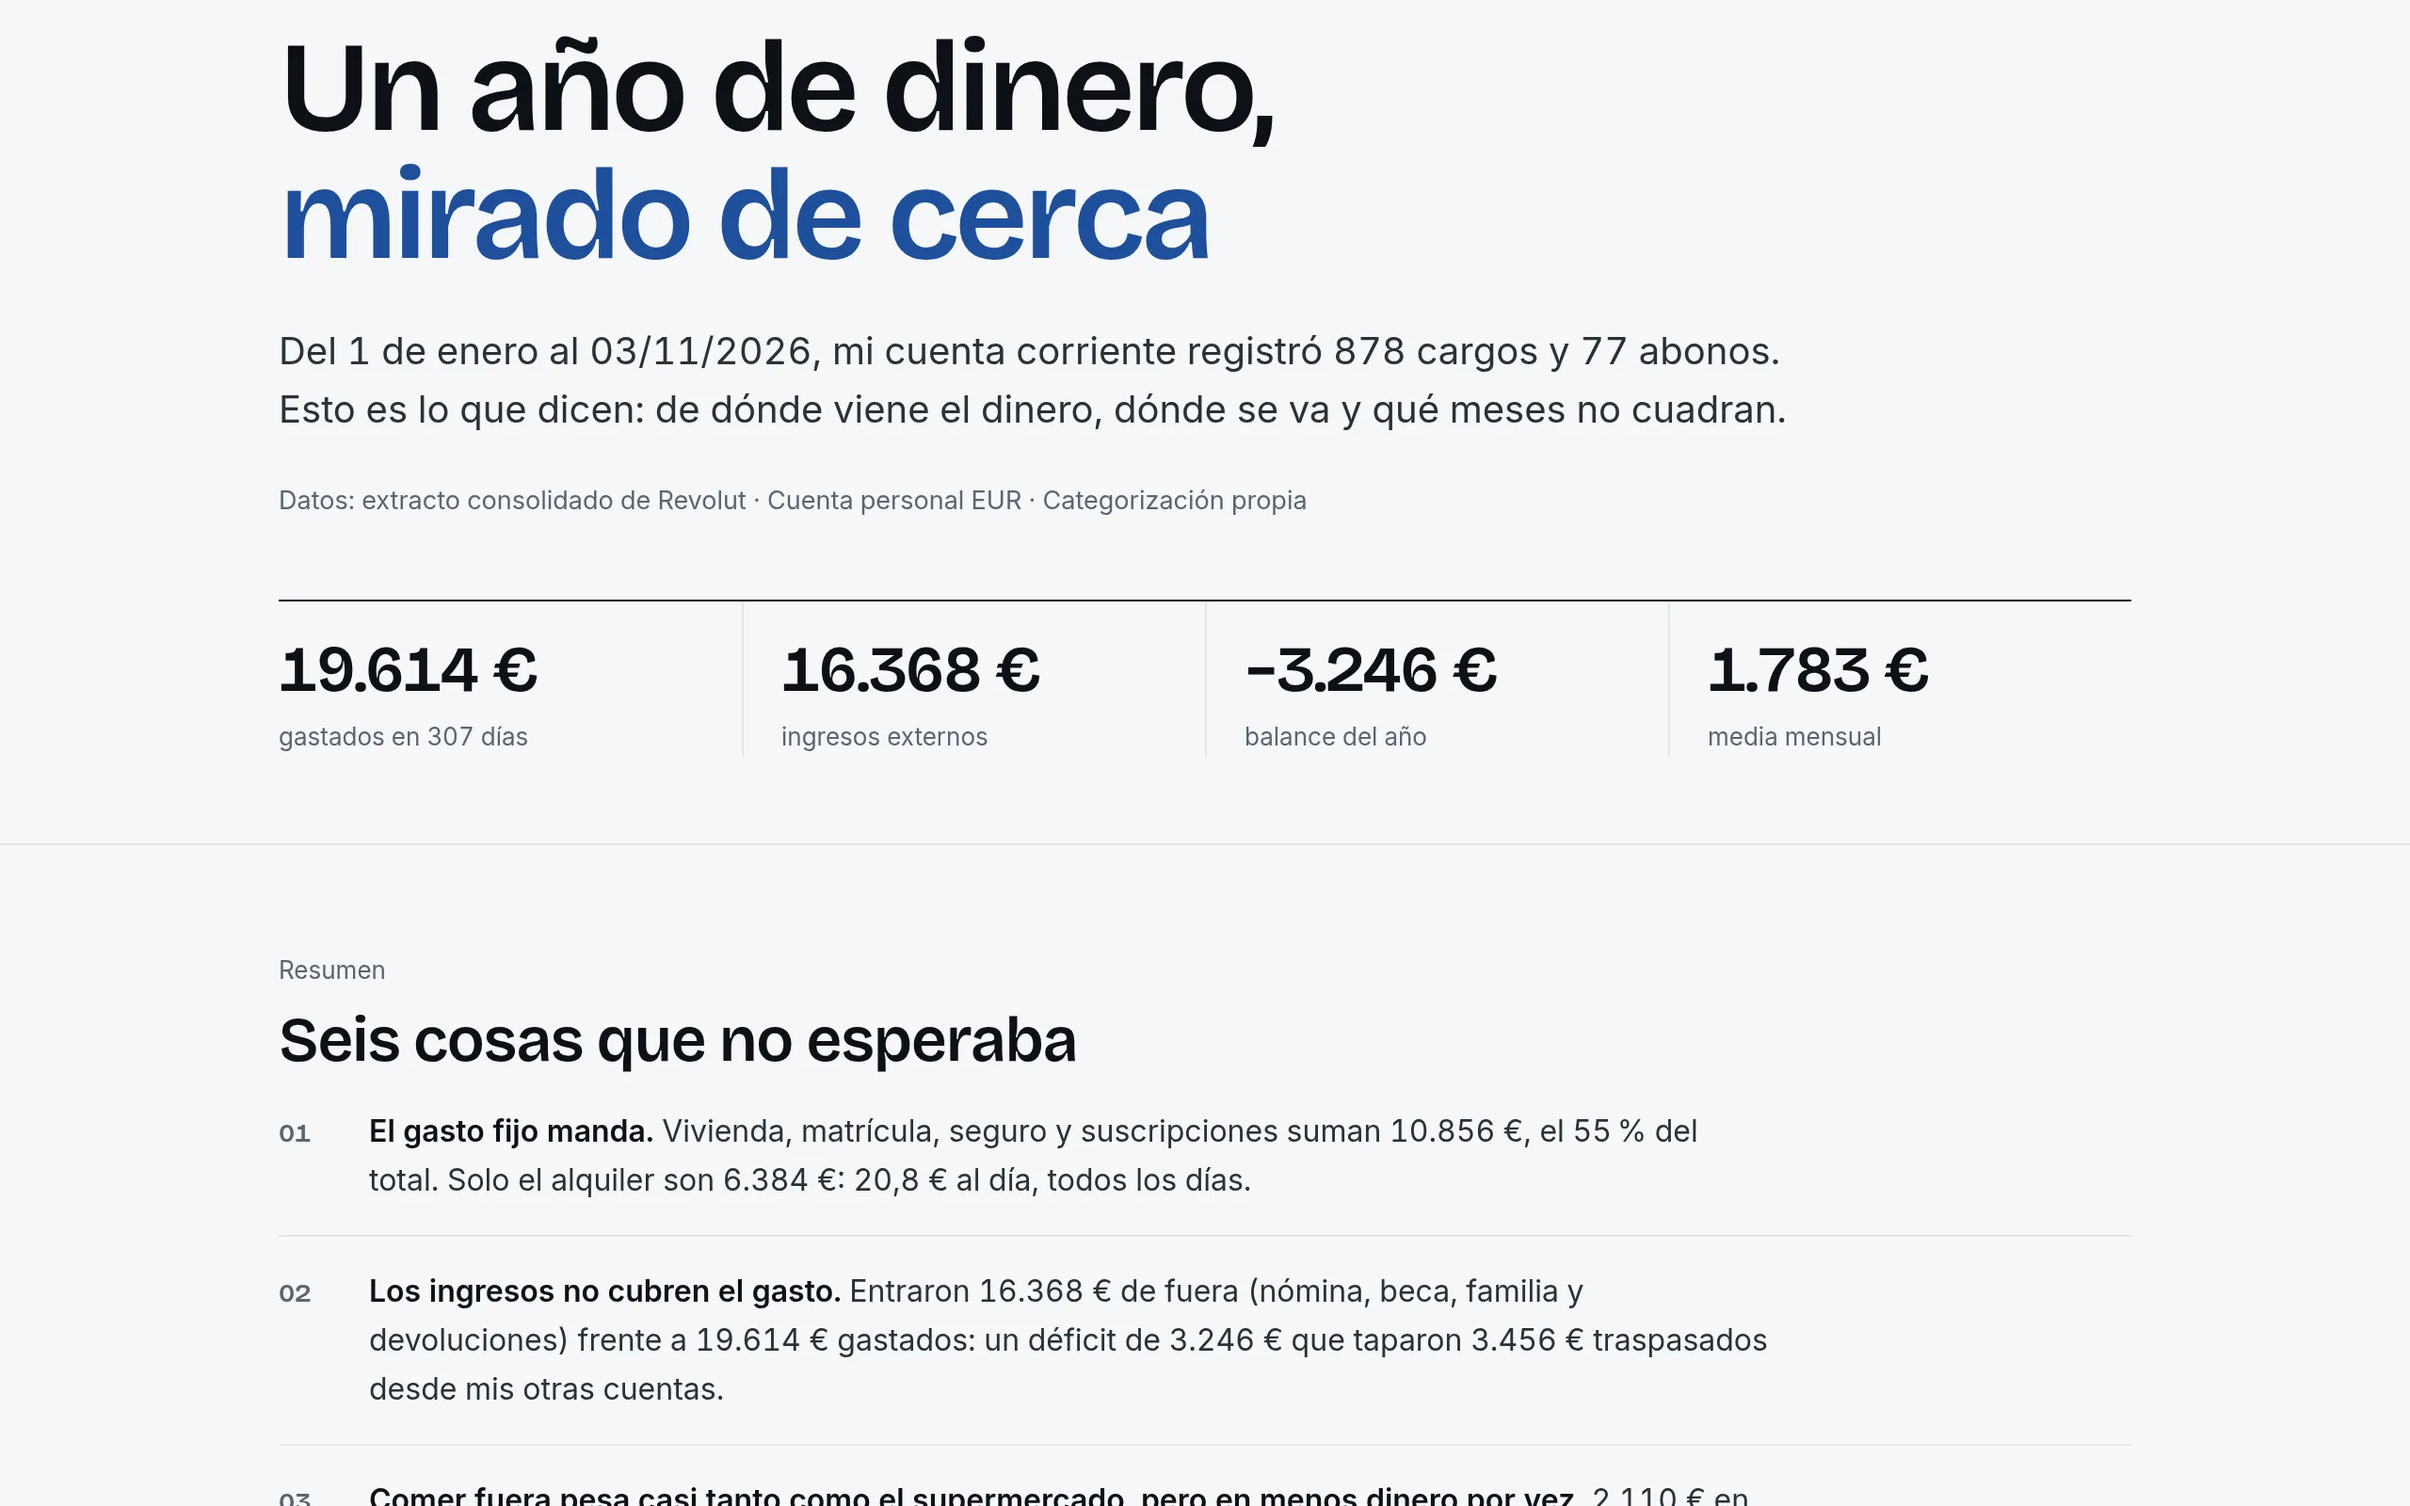
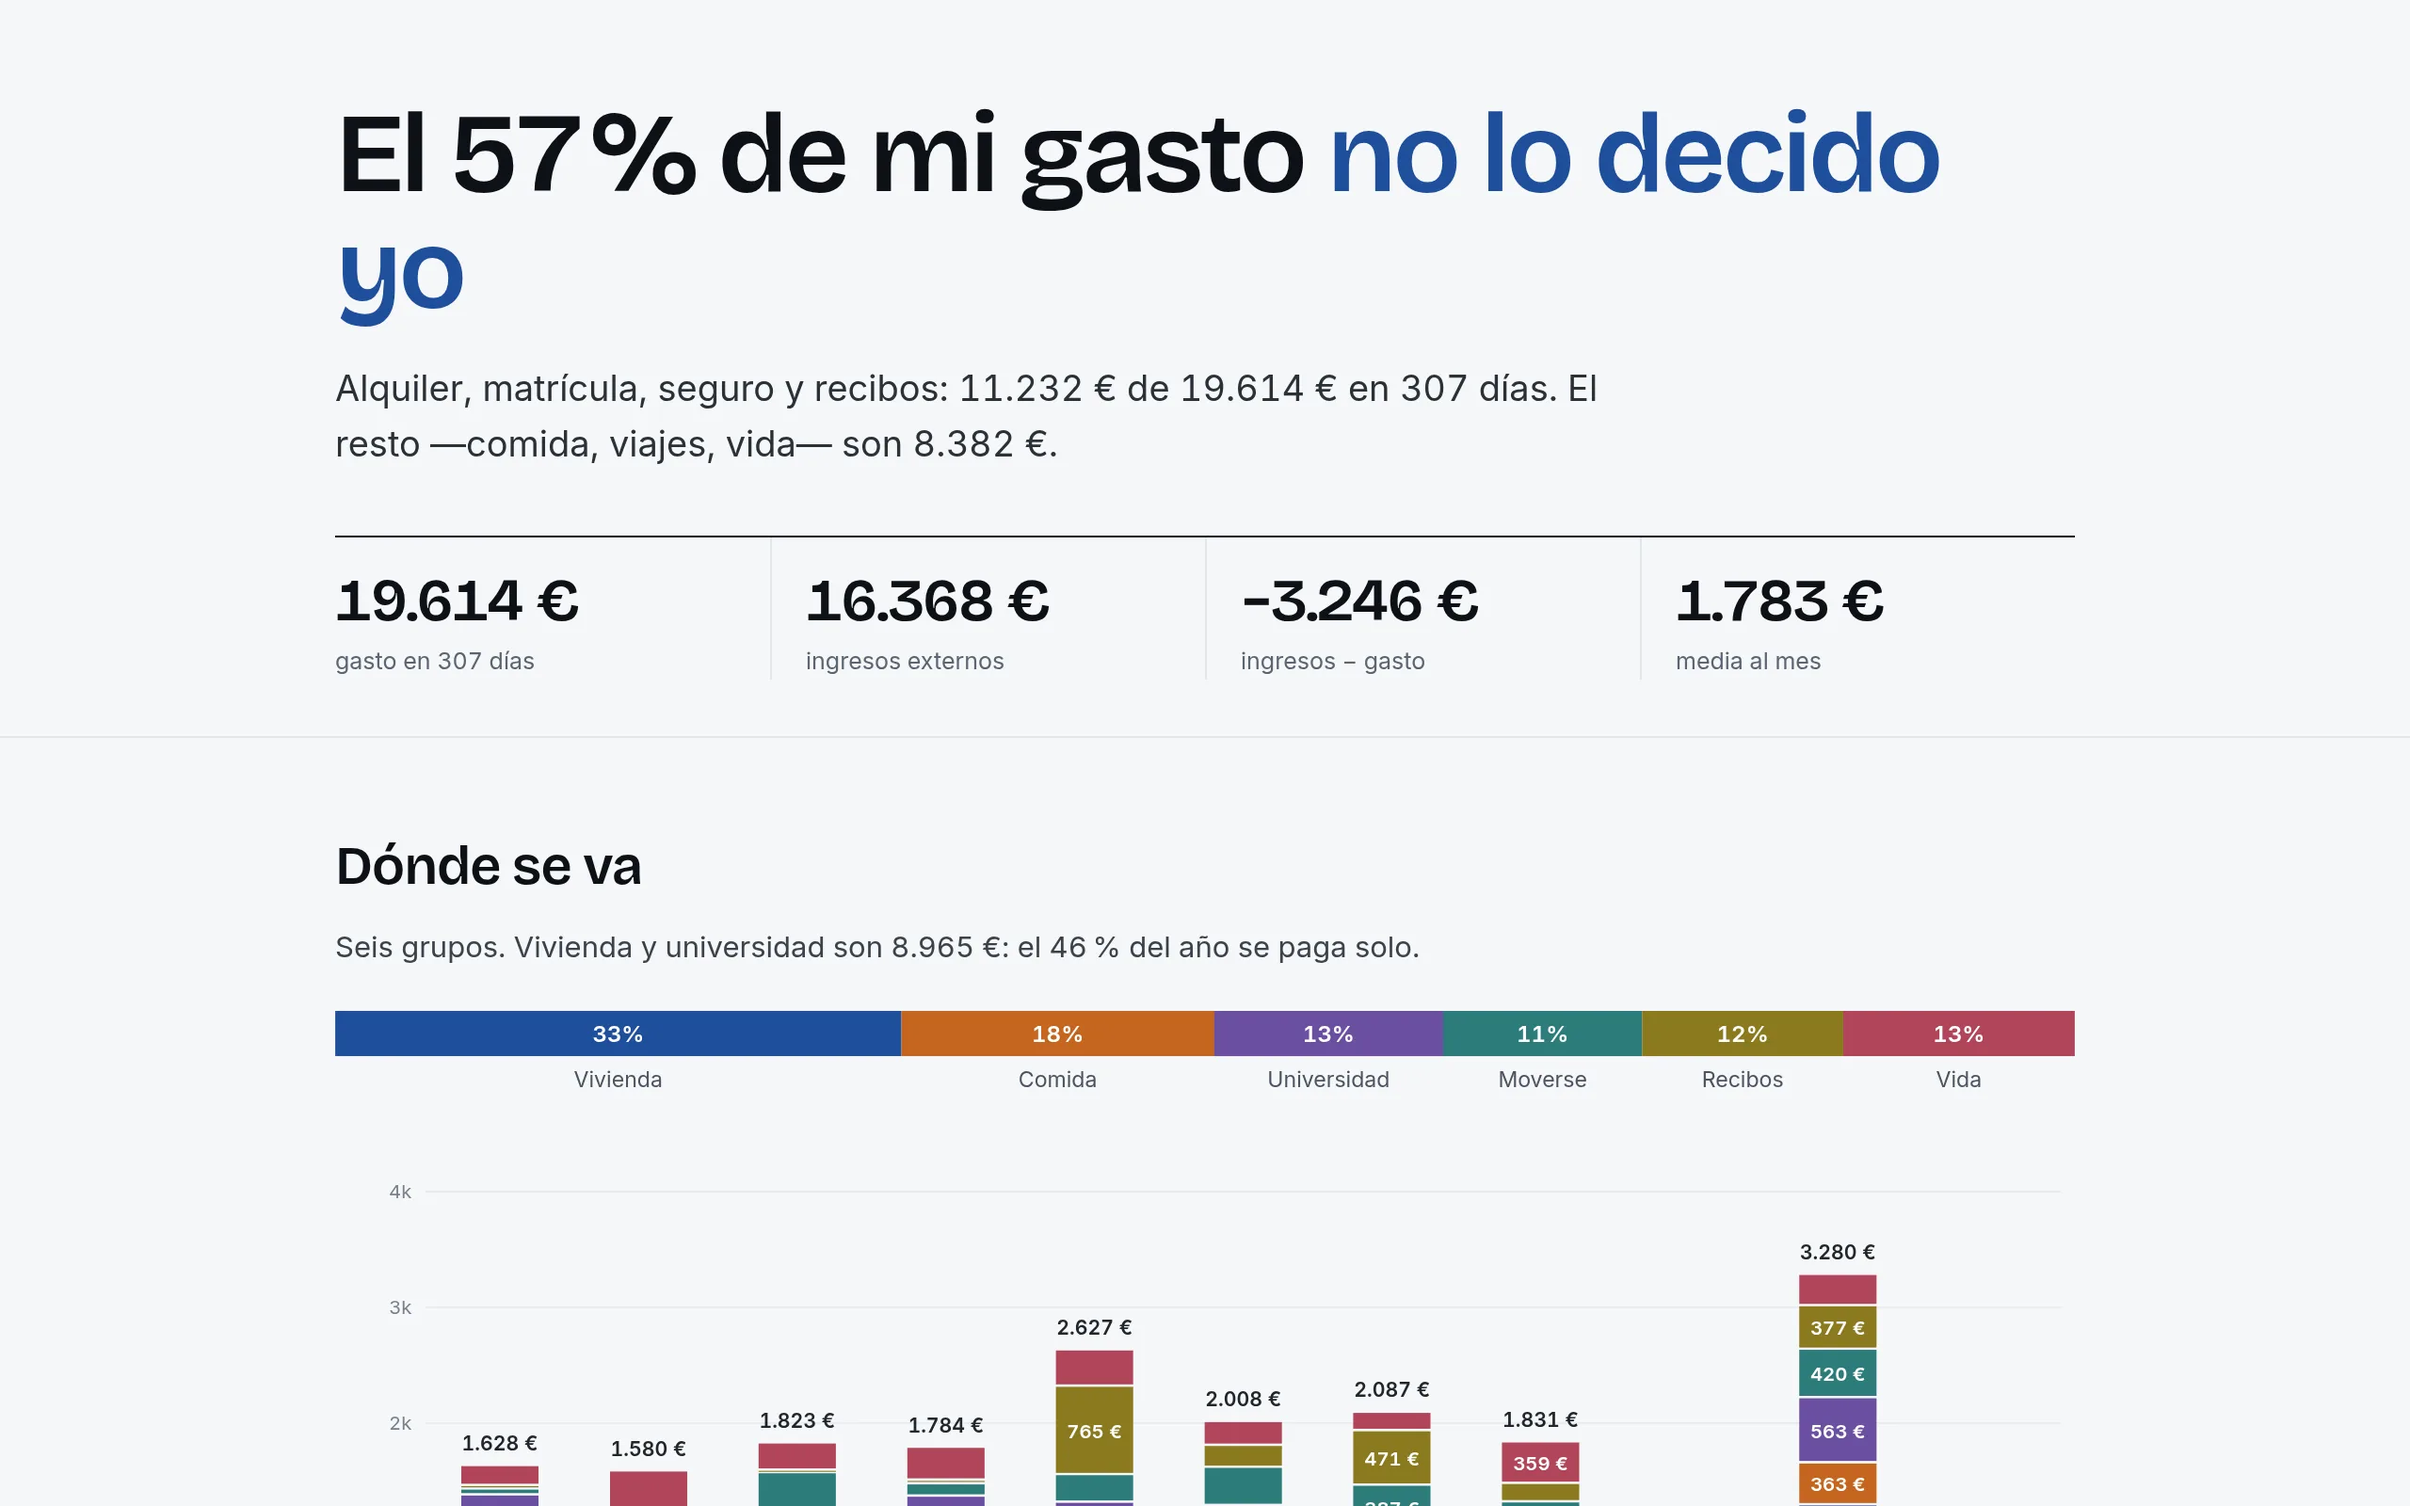
Gastos 2026: new cover and framing

diff --git a/artifacts.html b/artifacts.html
@@ -63,8 +63,8 @@
                             <img src="images/artifacts/gastos-2026.webp" alt="" width="640" height="400" loading="lazy">
                         </button>
                         <div class="artifacts-copy">
-                            <a href="https://dkealvaro.github.io/gastos-2026/">Where a year of spending goes</a>
-                            <p>A year of my bank statement taken apart: where the 19,614 &#8364; went, where the 16,368 &#8364; of income came from, which charges repeat every month, and why Tuesdays and Fridays cost more than Saturdays.</p>
+                            <a href="https://dkealvaro.github.io/gastos-2026/">El 57 % de mi gasto no lo decido yo</a>
+                            <p>Six groups, 955 statement lines, one year: fixed costs take 57 % of everything, income never covers the rest, and a Tuesday costs five Saturdays.</p>
                         </div>
                         <time datetime="2026-11-03">Nov 3</time>
                         <div class="artifacts-preview">
